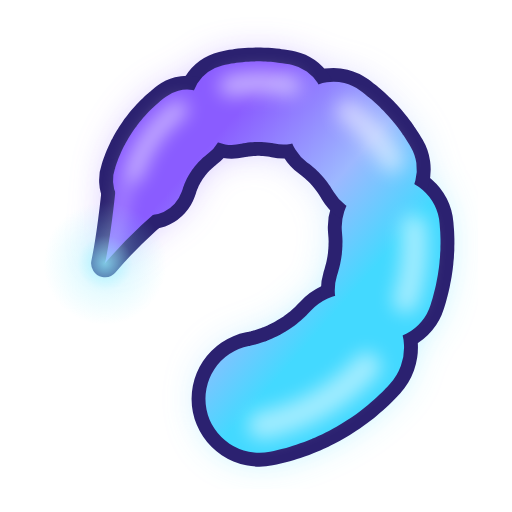
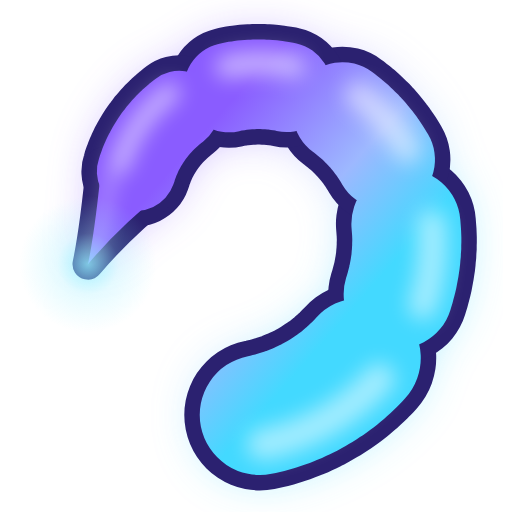
图标：蝎尾再放大至画布 92%（未裁切）

Changed region(s): [[0.125, 0.0312, 0.9375, 0.9688]]

diff --git a/README.md b/README.md
@@ -126,14 +126,14 @@ nginx -t && systemctl reload nginx
 
 图标为程序生成的手绘 SVG，概念：**蝎尾**——`telson` 在生物学里既指蝎子的**尾节**（藏毒针的那一节），也指虾蟹的尾扇。
 
-造型：一条由粗到细的五段尾巴，从底部抬起、绕过右侧与顶部，末端毒针向下钩起；青→蓝→紫渐变，带霓虹外发光、管状高光，以及一圈 **2.8 宽的深靛紫描边**（深色底像光晕、浅色底像轮廓，小尺寸更抓眼）。**透明背景，无底板、无边框**，主体约占画布 83%，光学居中。
+造型：一条由粗到细的五段尾巴，从底部抬起、绕过右侧与顶部，末端毒针向下钩起；青→蓝→紫渐变，带霓虹外发光、管状高光，以及一圈 **2.8 宽的深靛紫描边**（深色底像光晕、浅色底像轮廓，小尺寸更抓眼）。**透明背景，无底板、无边框**，主体约占画布 92%（高 59/64），光学居中。
 
 - `assets/img/icon.svg` — 图标主体：**透明底、无底板无边框**的蝎尾（favicon 主用）
 - `assets/img/mark.svg` — 与 icon.svg 同源（页头 logo 用，26px）
 - `assets/img/icon.png`（512）与 `assets/img/apple-touch-icon.png`（180）— 由 `icon.svg` 栅格化导出
 - `assets/img/pteropilot-icon.png` — Pteropilot 产品图标（项目页展示用）
 
-几何由 `_telson-dev-qa/gen_scorpion_icon.js` 用参数方程生成（螺旋 + 分段 + 毒针），视觉中心已校准到画布中心（四边留白 5.4–7.2 / 64）。
+几何由 `_telson-dev-qa/gen_scorpion_icon.js` 用参数方程生成（螺旋 + 分段 + 毒针），视觉中心已校准到画布中心（四边留白 2.4–4.5 / 64，未触边、无裁切）。
 
 **改图标**：编辑 `gen_scorpion_icon.js` 的参数（回转角度、半径、段数、锥度）或直接改两个 SVG，然后用无头 Chrome 重新导出 PNG（`raster_icon.js`，需 `D:\Projects\pteropilot\promo\src` 下的 puppeteer-core）。
 
